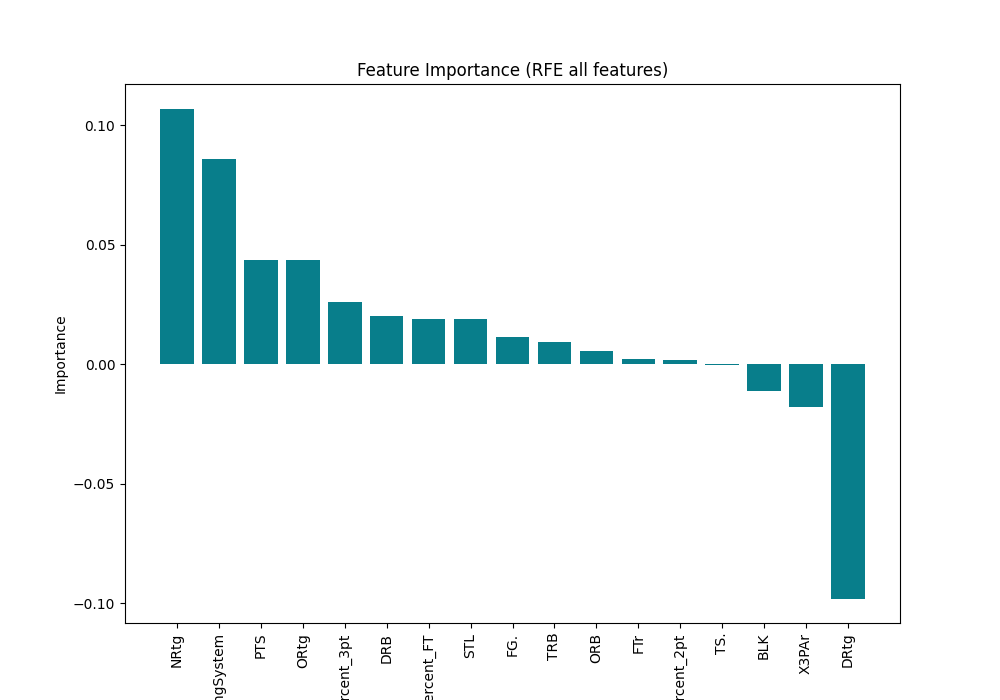
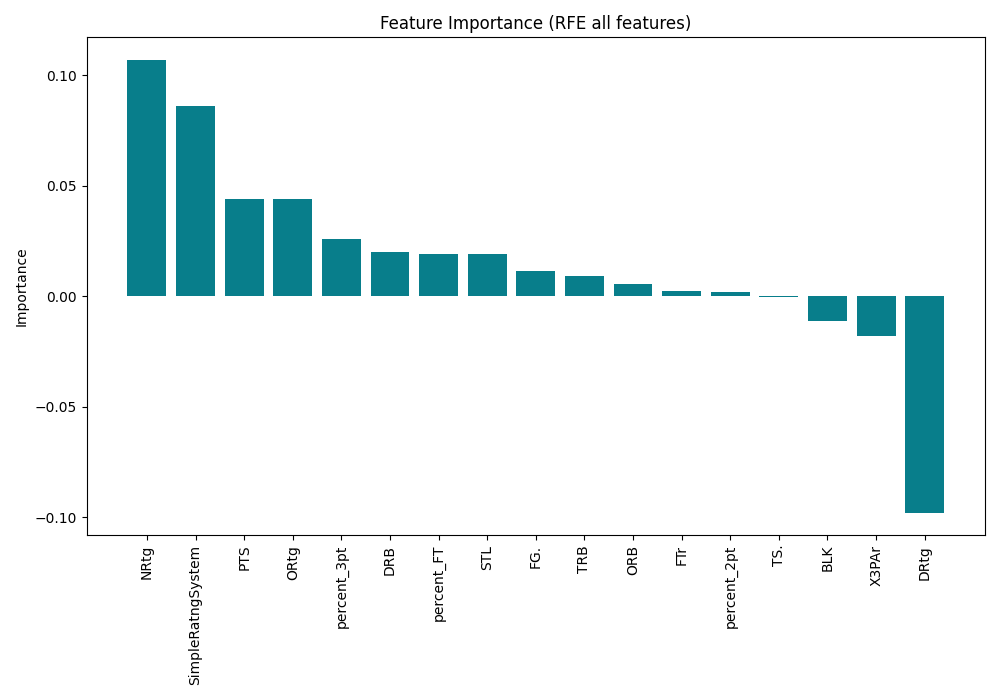
adjusted plode code - datacleaning + Feaimportance

diff --git a/masterScript_testRun/featureImportance.py b/masterScript_testRun/featureImportance.py
@@ -2,7 +2,7 @@
 # Author:   Jesse Wolf, jwolf@uoguelph.ca | Thomas Papp-Simon, tpappsim@uoguelph.ca
 # Date:     March 18, 2023
 
-# How to run: python3 .\featureImportance.py -base .\scaled_training_sets\training2015-2021_outliers_removed_scaled.csv -rfe .\RFE_splits1\RFE_training2015-2021_outliers_removed_scaled.csv -rfe9 .\RFE_splits\train2015_2021_RFEcommon.csv
+# How to run: python3 .\featureImportance.py -base .\scaled_training_sets\training2015-2021_outliers_removed_scaled.csv -rfe .\RFE_splits\RFE_training2015-2021_outliers_removed_scaled.csv -rfe9 .\RFE_splits\train2015_2021_RFEcommon.csv
 
 # This script takes our baseline data (2015-2021 with no RFE performed), our RFE-selected data for 2015-2021, and our common RFE data (2015-2021 with only the 9 features that RFE identified as common between all training splits.)
 # ================= #
@@ -74,7 +74,7 @@ for df, ax in zip(df_list, axs.ravel()):
         ax.set_title('Feature Importance (baseline)')
     elif name == 'df_RFE_common_features':
         ax.set_title('Feature Importance (RFE common features)')
-
+pyplot.tight_layout()
 pyplot.savefig(f"./featureImportance/feature_Importance_base_RFE.png")
 
 
@@ -105,5 +105,5 @@ axs.tick_params(axis='x', labelrotation=90)
 name =[x for x in globals() if globals()[x] is df_RFE_all_features][0]
 if name == 'df_RFE_all_features':
     axs.set_title("Feature Importance (RFE all features)")
-
+pyplot.tight_layout()
 pyplot.savefig(f"./featureImportance/feature_Importance_base_RFE_all.png")

diff --git a/masterScript_testRun/dataCleaning.py b/masterScript_testRun/dataCleaning.py
@@ -77,16 +77,13 @@ plt.pie(wl_home_count_list,
                       'linewidth': 1,
                       'antialiased': True})
 plt.title("Win/Loss Home Distribution")
+plt.tight_layout()
 plt.savefig(f"./dataExplorationPlots/wl_home_piechart.png")
 # plt.show()
 
-# box and whisker plots
-merged_df.iloc[:, 12:].plot(kind='box', subplots=True, layout=(4,6), sharex=False, sharey=False)
-# plt.show()
-plt.savefig(f"./dataExplorationPlots/featuresBoxAndWhisker.png")
-
 # histograms
 merged_df.iloc[:, 12:].hist()
+plt.tight_layout()
 # plt.show()
 plt.savefig(f"./dataExplorationPlots/featuresHistogram.png")
 
